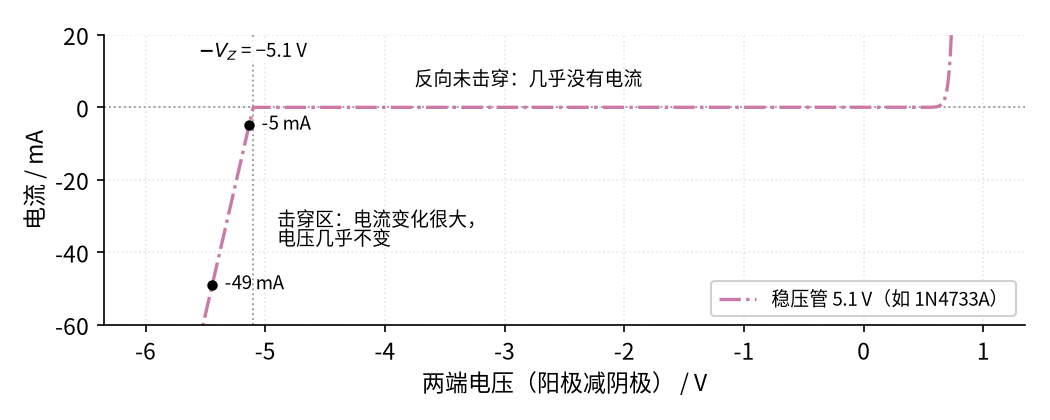
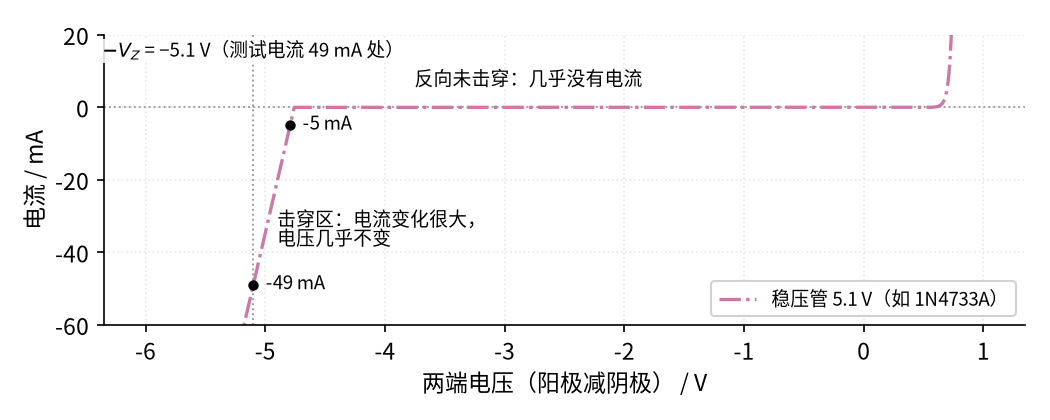
fix: 半导体入门 复核修改

diff --git a/code/figs/P2_figs.py b/code/figs/P2_figs.py
@@ -29,10 +29,20 @@ def diode_v(i, Is=1e-14, n=1.0):
 LED_IS, LED_N = 1e-18, 2.0   # 红色 LED 的示意参数：10 mA 时压降约 1.9 V
 
 
-def zener_i(v, vz=5.1, rz=7.0):
-    """稳压管（以阳极→阴极为正方向）：正向像普通二极管；反向超过 V_Z 后电流按 1/rz 急剧增大。"""
+IZT = 49e-3           # 1N4733A 的测试电流 I_ZT：手册的 V_Z = 5.1 V 就是在这个电流下测的
+
+
+def zener_v(iz, vz=5.1, rz=7.0, izt=IZT):
+    """击穿区模型 V = V_Z + r_Z·(I_Z − I_ZT)：I_Z = I_ZT 时正好等于手册的 V_Z。"""
+    return vz + rz * (iz - izt)
+
+
+def zener_i(v, vz=5.1, rz=7.0, izt=IZT):
+    """稳压管（以阳极→阴极为正方向）：正向像普通二极管；反向电压超过 V_Z − r_Z·I_ZT 后，
+    电流按 1/rz 急剧增大（击穿区是一条直线，I_Z = I_ZT 时两端电压正好是 V_Z）。"""
     fwd = diode_i(v)
-    rev = np.where(v < -vz, (v + vz) / rz, 0.0)          # 击穿后的近似直线，斜率 1/rz
+    v0 = vz - rz * izt                                    # 直线外推到电流为 0 的电压，约 4.757 V
+    rev = np.where(v < -v0, (v + v0) / rz, 0.0)          # 击穿后的近似直线，斜率 1/rz
     return fwd + rev
 
 
@@ -134,7 +144,7 @@ def p2_1():
     i_led = diode_i(v, LED_IS, LED_N) * 1e3
     fig, ax = plt.subplots(figsize=fs.SIZE["single"])
     ax.plot(v, i_si, **fs.LS["vin"], label="硅二极管（如 1N4148）")
-    ax.plot(v, i_led, **fs.LS["third"], label="红色 LED")
+    ax.plot(v, i_led, **fs.LS["third"], label="红光 LED")
     v1 = float(diode_v(1e-3)); v10 = float(diode_v(10e-3))
     vl10 = float(diode_v(10e-3, LED_IS, LED_N))
     fs.ref_h(ax, 10)
@@ -159,9 +169,9 @@ def p2_2():
     fig, ax = plt.subplots(figsize=fs.SIZE["single"])
     ax.plot(v, i, **fs.LS["third"], label="稳压管 5.1 V（如 1N4733A）")
     fs.ref_h(ax, 0)
-    fs.ref_v(ax, -5.1, "$-V_Z$ = −5.1 V")
-    # 反向电流 5 mA 和 49 mA 时的电压
-    v5 = -(5.1 + 5e-3 * 7.0); v49 = -(5.1 + 49e-3 * 7.0)
+    fs.ref_v(ax, -5.1, "$-V_Z$ = −5.1 V（测试电流 49 mA 处）")
+    # 反向电流 5 mA 和 49 mA（测试电流 I_ZT）时的电压，模型 V = V_Z + r_Z·(I_Z − I_ZT)
+    v5 = -zener_v(5e-3); v49 = -zener_v(49e-3)
     fs.mark(ax, v5, -5, fmt="{:.0f}", unit=" mA", dx=6, dy=-2)
     fs.mark(ax, v49, -49, fmt="{:.0f}", unit=" mA", dx=6, dy=-2)
     print(f"[数值] 反向 5 mA 时 V = {v5:.3f} V，反向 49 mA 时 V = {v49:.3f} V，相差 {v5 - v49:.3f} V")
@@ -171,6 +181,8 @@ def p2_2():
     fs.axlabels(ax, "两端电压（阳极减阴极）", "V", "电流", "mA")
     ax.legend(loc="lower right")
     assert abs(v5 - v49) < 0.35, "5→49 mA 电压变化应小于 0.35 V"
+    assert abs(v49 + 5.1) < 1e-9, "测试电流 49 mA 时必须正好等于手册 V_Z = 5.1 V"
+    assert abs(float(zener_i(v49)) * 1e3 + 49) < 1e-6, "曲线与公式一致：−5.1 V 处电流 −49 mA"
     fs.save(fig, P, "P2_p2_2_zener_iv.png")
     return v5, v49
 
